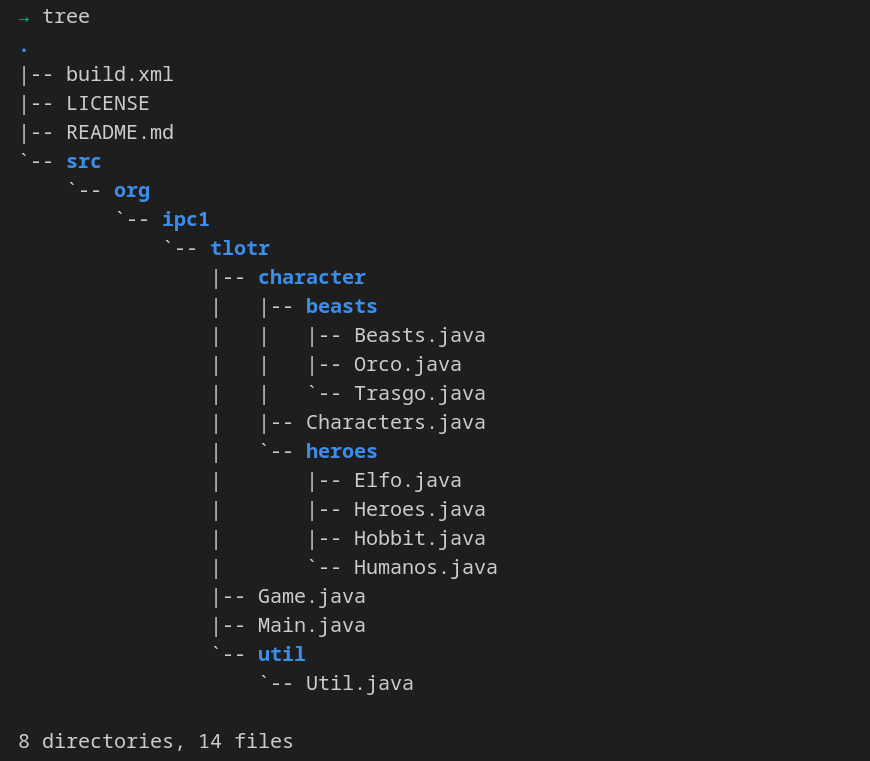
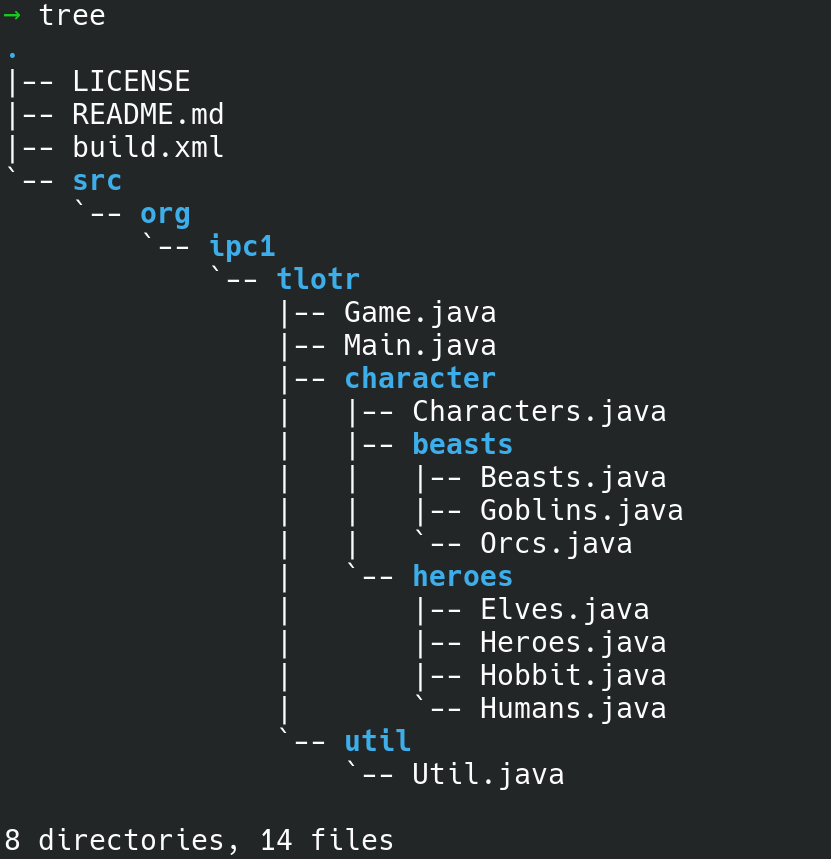
update java intro

diff --git a/Programacion/java/intro/Compiling packages java.md b/Programacion/java/intro/Compiling packages java.md
@@ -48,7 +48,7 @@ To compile the project, is important to pay attention to the next things
 * To use the *javac* command you need to be in the source code folder, in these example we need to be inside the *src* folder because all the packages does not include the src in their definition. 
 * You can not compile verifing recuersive all the folders, you need to compile each folders files. 
 
-we can execute the Java compiler with the next command in bash.
+we can execute the Java compiler with the next commands in bash.
 
 
 ```bash
@@ -64,39 +64,74 @@ Or we can execute all in the same line
 
 ```bash
 cd src
-javac -d ../build org/ipc1/tlotr/*.java org/ipc1/tlotr/util/*.java org/ipc1/tlotr/characters/*.java org/ipc1/tlotr/characters/beasts/*.java org/ipc1/tlotr/characters/heroes/*.java
+javac -d ../build org/ipc1/tlotr/*.java org/ipc1/tlotr/util/*.java org/ipc1/tlotr/character/*.java org/ipc1/tlotr/character/beasts/*.java org/ipc1/tlotr/character/heroes/*.java
 ```
 
 * **javac** is the java compiler
 * **-d** argument tells the compiler where the compile files should be saved. In this case **./build** is the route.
-* **src/HelloWorld.java src/Main.java** tells the compiler which files should compile
-
-Another variant to the command before could be
-
-```bash
-javac -d ./build src/*.java
-```
-
-The only change is how we specify the files to compile 
-
-* **src/\*.java**  specifies that we want to compile all the java files. For that we use the wild card **\***.  
+* **src/ipc1/tlotr/...** tells the compiler which packages it have to compile. Is important to add each package (folder). It is not recursive. 
+* **../*.java**  specifies that we want to compile all the java files inside a directory. For that we use the wild card **\***.  
 
 ## The output of the compile
 
-Now we can see that the compiler creates files in the *src* folder with the *.class* extension.
+Now we can see that the compiler creates all the compiled files (bytecode) inside the build folder. Notice that the compiler creates the same structure that is defined in the src.  The next image only presents the build folder, the other files and folders does not change.
 
-![tree 3](./treeMultipleFiles3.png)
+![root projecto tlofr](./compilingPackages3.png)
 
 ## Executing our project
-To execute our project, we must type in our terminal the next command: 
+To execute our project we must be in the project's root directory. We must type in our terminal the next command: 
 
 ```bash
-java -cp ./build Main
+java -cp ./build org.ipc1.tlotr.Main
 ```
 
 * **java** basically starts an application by starting the Java virtual machine. 
 * **-cp** specifies the directory where our compiled files are. In this case we have the *build* folder for that. Thats the reason for write **./build**
-* **Main** in this case, Main is the name for the class that has the entry point. In java the entry point is the method *public static void main(String[] args)*
+* **org.ipc1.tlotr.Main** in this case, we specify the package and the entry point that is ubicated in the Main file. 
 
-![tree 4](./treeMultipleFiles4.png)
+![root projecto tlofr](./compilingPackages4.png)
 
+## Creating a Jar file
+
+Inside the project's root directory we are goint to create a dist folder to save the jar file 
+```bash
+mkdir dist
+```
+
+Now we have to move into the build folder, the directory where we have the .class files (bytecode).  Inside that directory we are goint to create a manifest.txt file. This file should have the next text inside 
+
+```text
+Main-Class: org.ipc1.tlotr.Main
+```
+
+The main class indicates the entry point of this project. Now we can create the jar file, we should execute the next command:
+
+```bash
+jar cvfm ../dist/tlotr.jar manifest.txt org/ipc1/tlotr/*.class org/ipc1/tlotr/util/*.class org/ipc1/tlotr/character/*.class org/ipc1/tlotr/character/beasts/*.class org/ipc1/tlotr/character/heroes/*.class
+```
+
+* **jar** the jar command creates a new compress file for classes and other resources. 
+* **cvfm** it refers to **C** --> create, **v** --> verbose, **f** --> to specify the filename, **m** --> to indicate that the jar file has a manifest file. 
+* **manifest.txt** indicates the name and ubication of the manifest txt
+* **org/ipc1/tlotr/ .../** especifies all the packages and resources that we need to add in the jar file. Is important to notices that this command is not recursive
+
+The output should looks like 
+
+![root projecto tlofr](./compilingPackages5.png)
+And the directory of the build and dist folder looks like this
+
+![root projecto tlofr](./compilingPackages6.png)
+## Executing the JAR
+
+To execute the jar file we need to run the next command
+```bash
+java -jar dist/tlotr.jar
+```
+
+And the project is working
+
+![root projecto tlofr](./compilingPackages7.png)
+
+Now you can enjoy the game
+
+![root projecto tlofr](./compilingPackages8.png)
